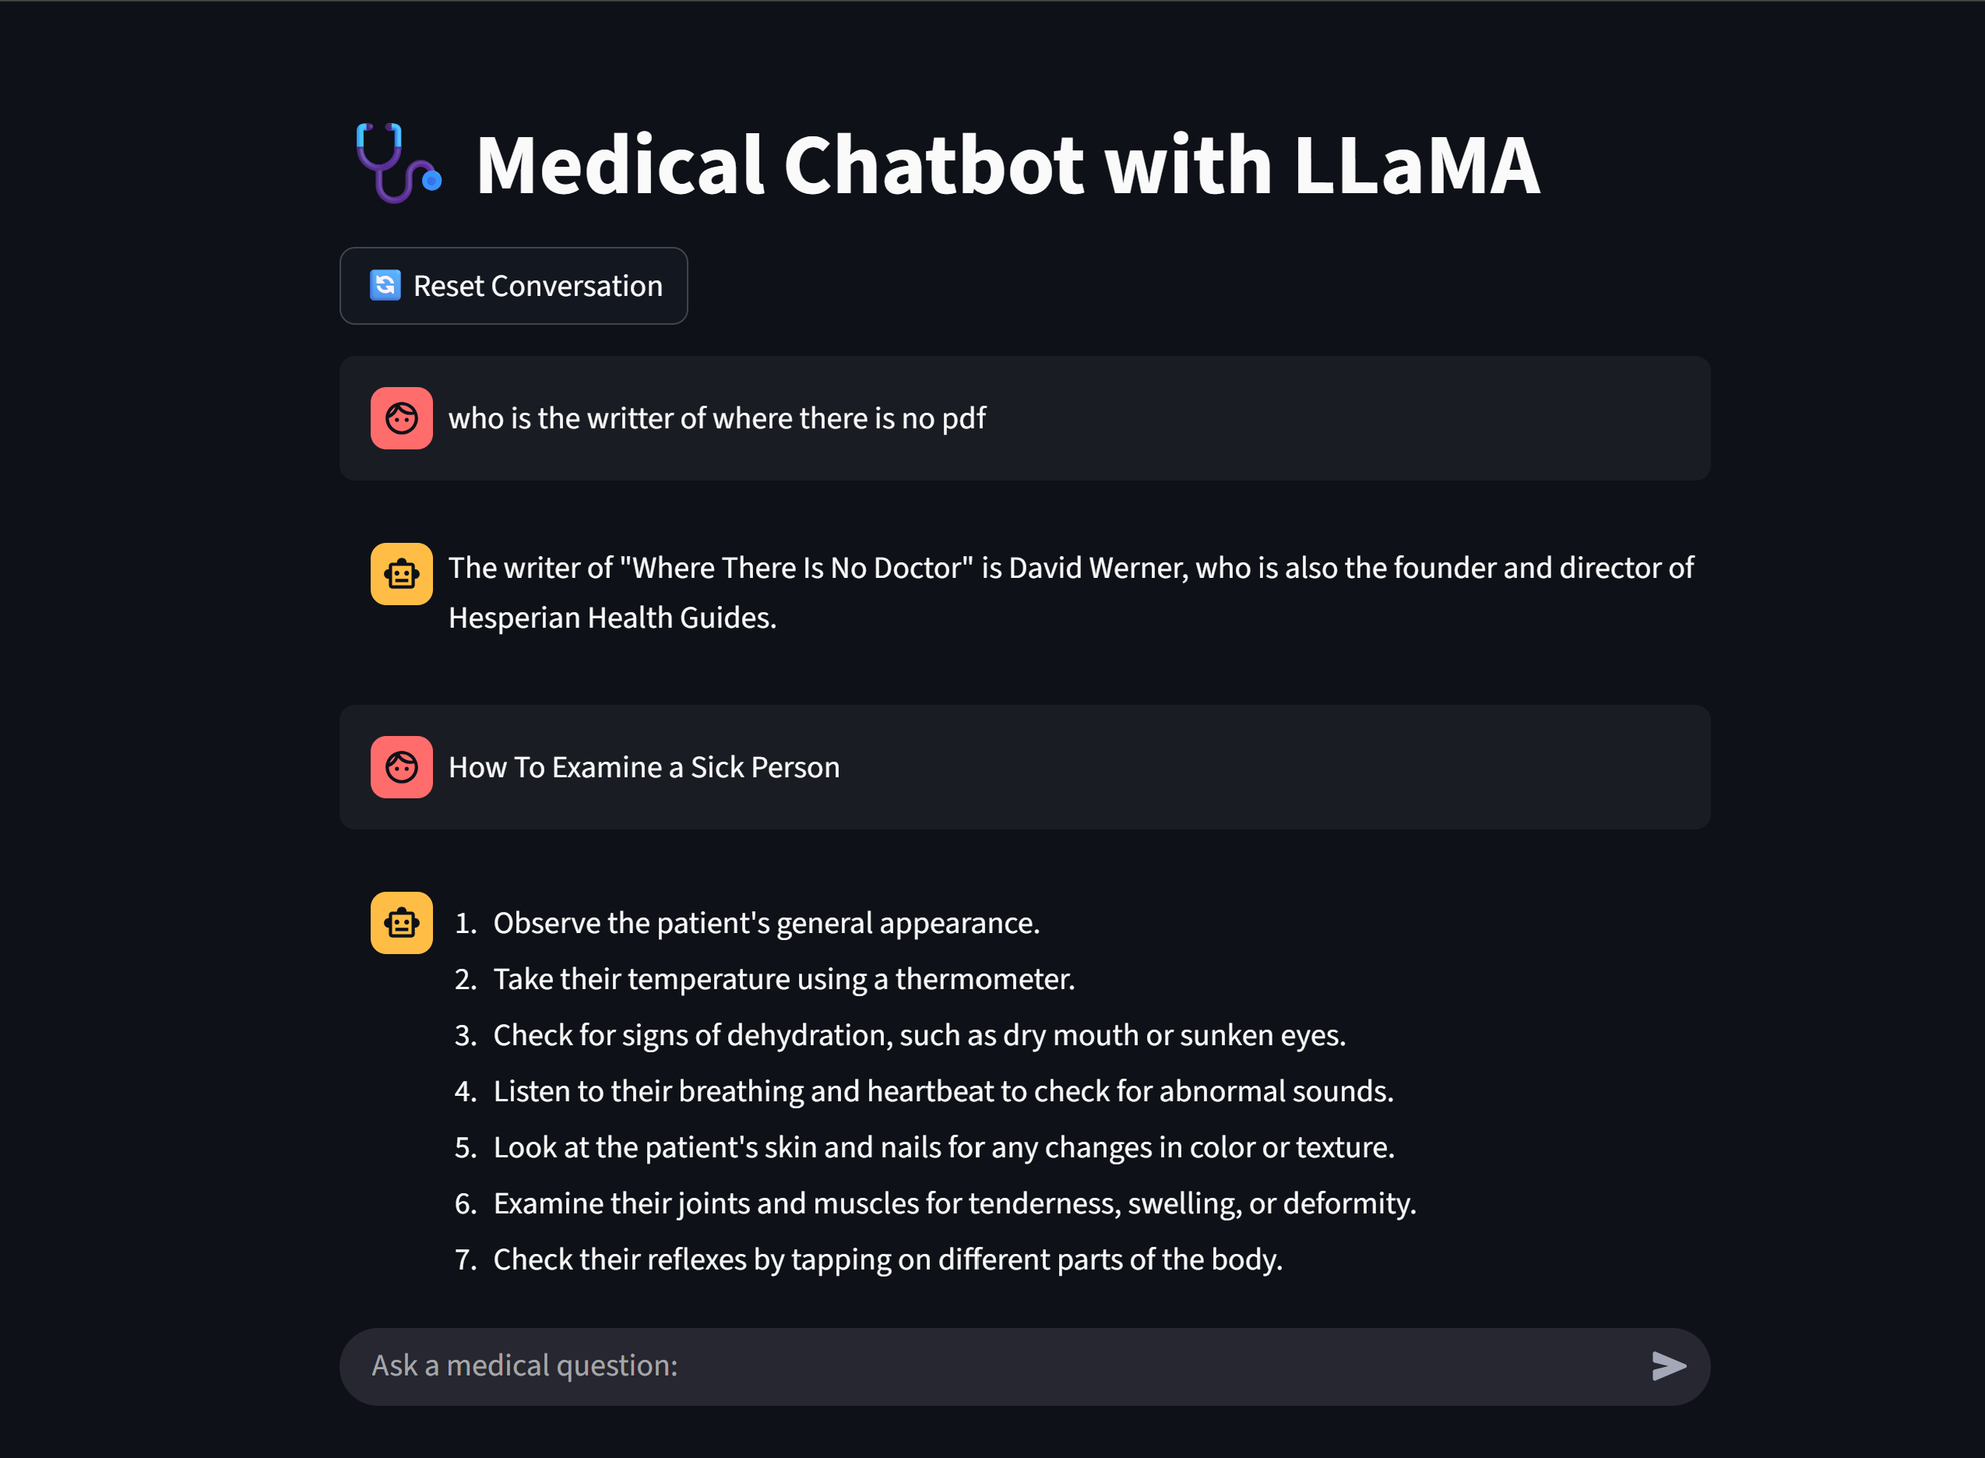
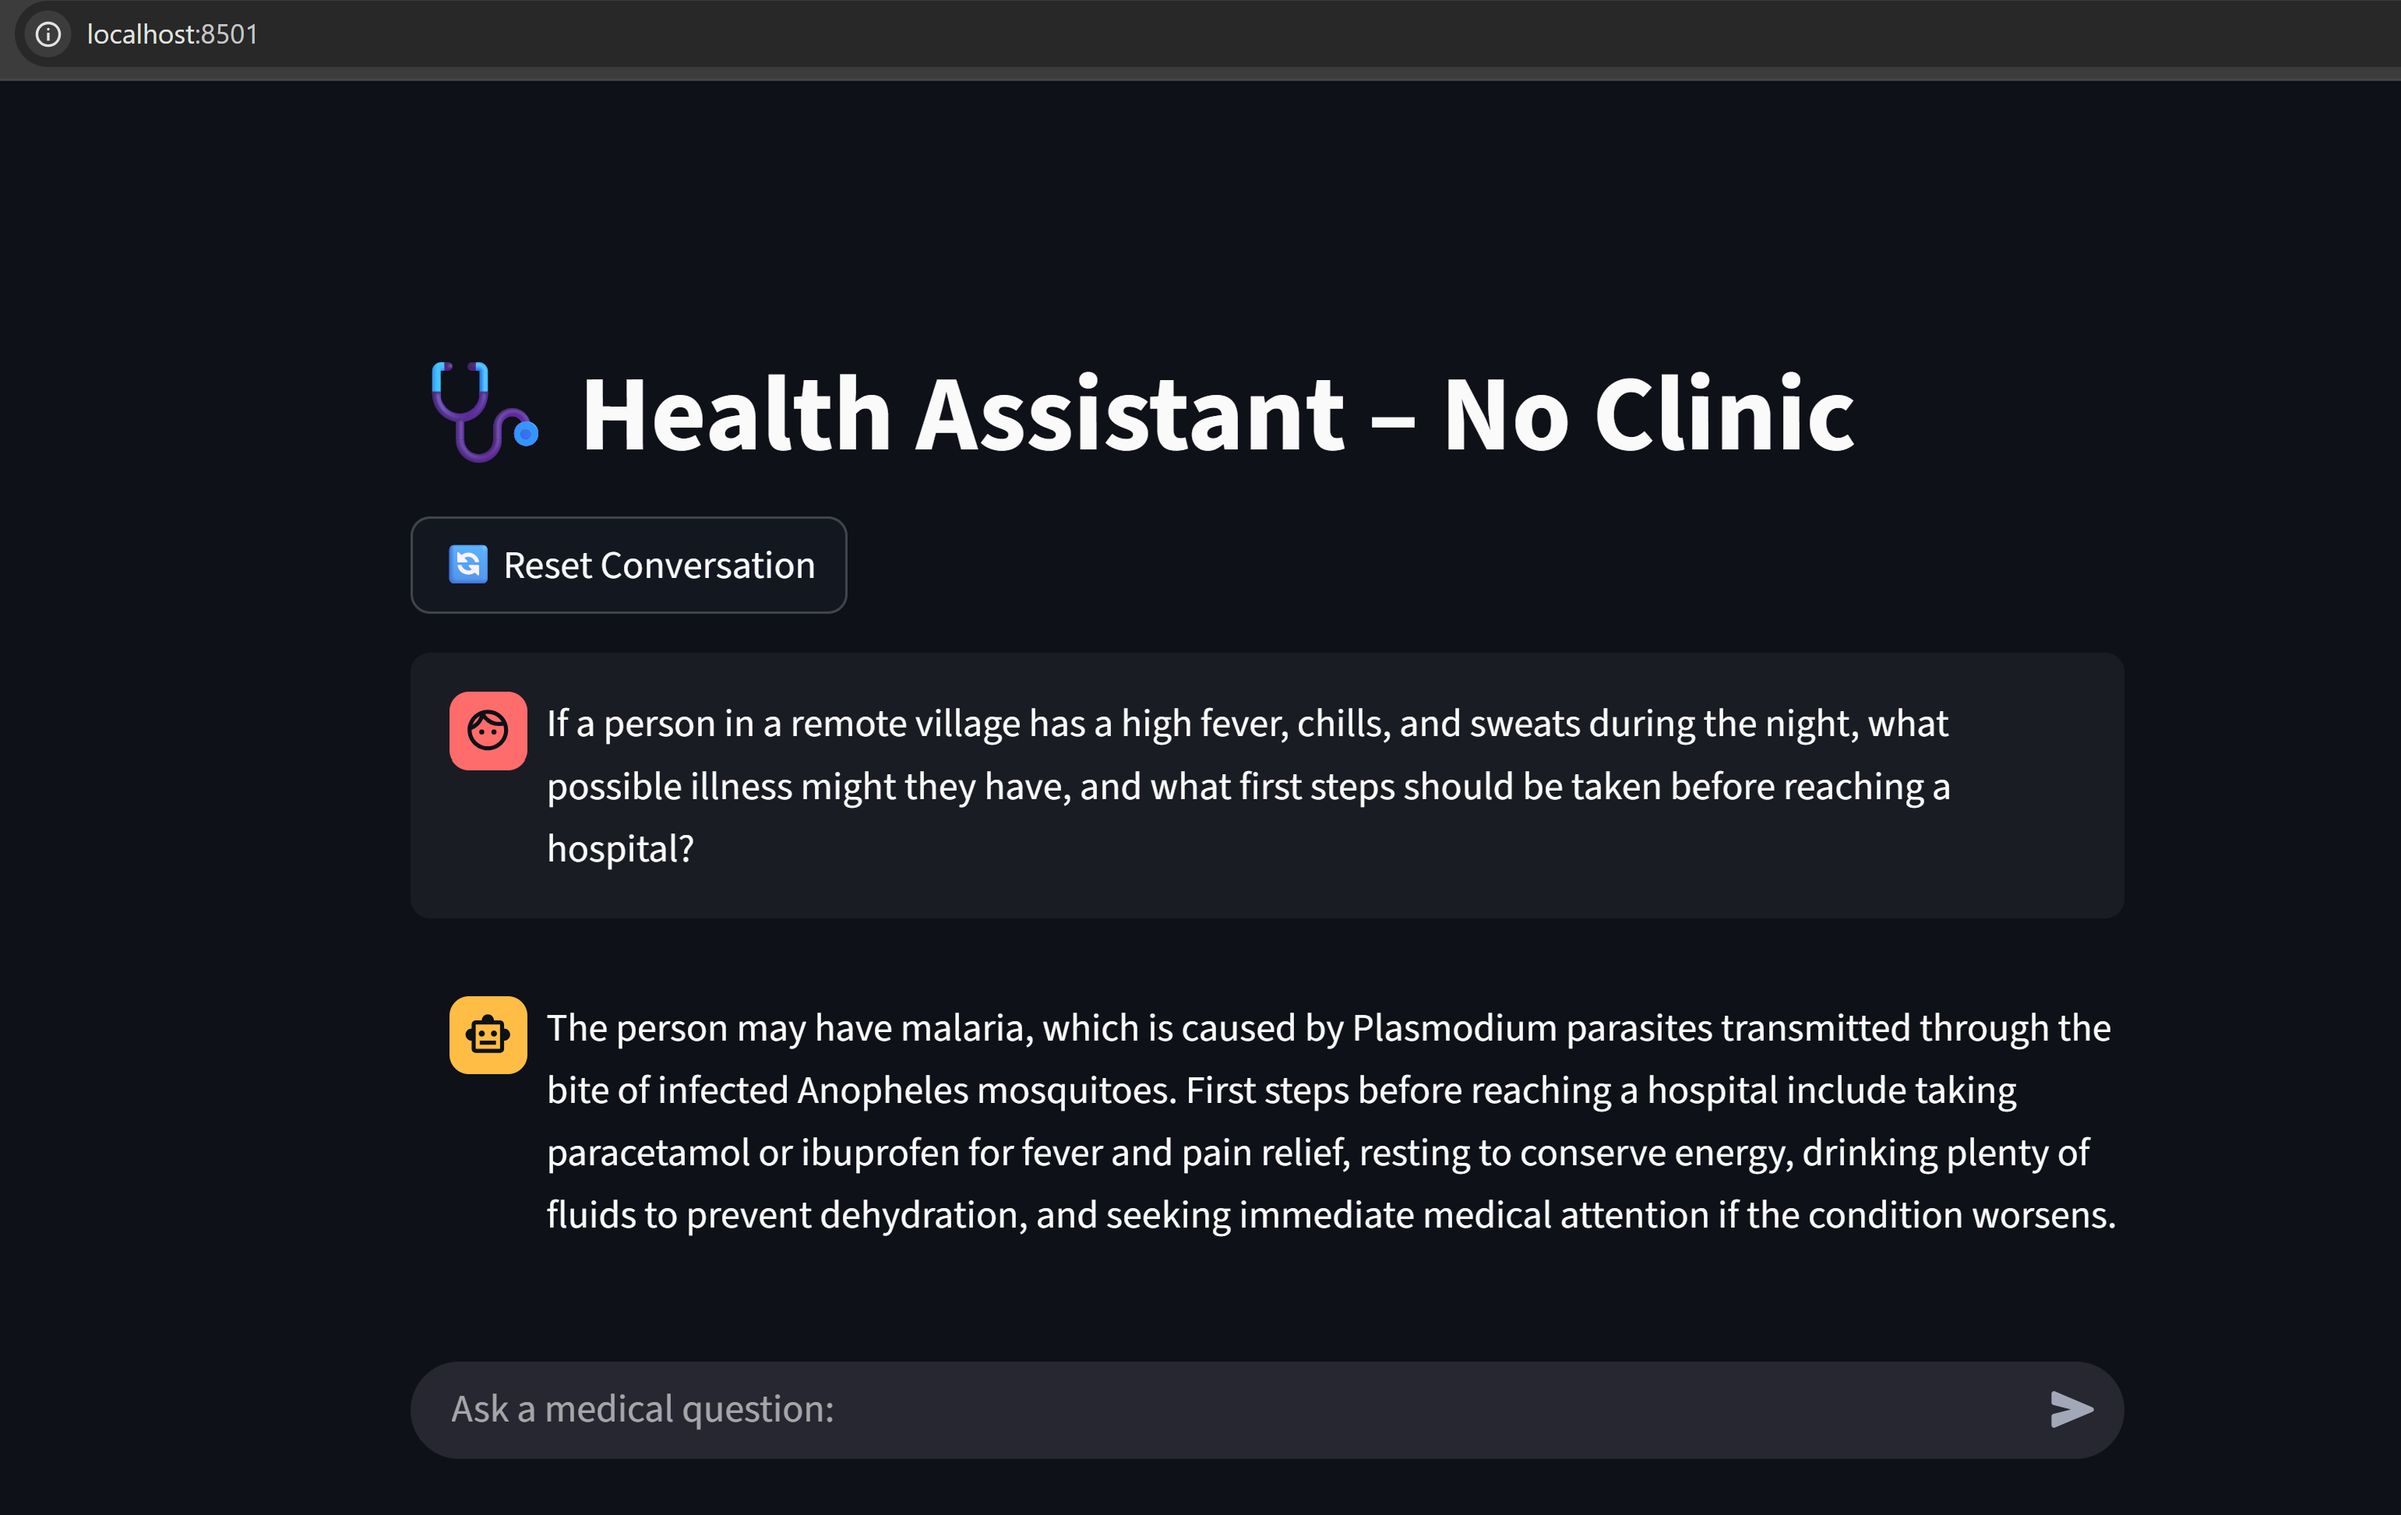
update main.py

diff --git a/src/main.py b/src/main.py
@@ -30,7 +30,9 @@ except Exception as e:
     logger.error(f"⚠ Index not loaded: {e}")
     st.warning(f"⚠ Index not loaded: {e}")
 
-st.title("🩺 Medical Chatbot with LLaMA")
+st.title("🩺 Health Assistant  –  No Clinic")
+
+
 
 # Reset button
 if st.button("🔄 Reset Conversation"):
